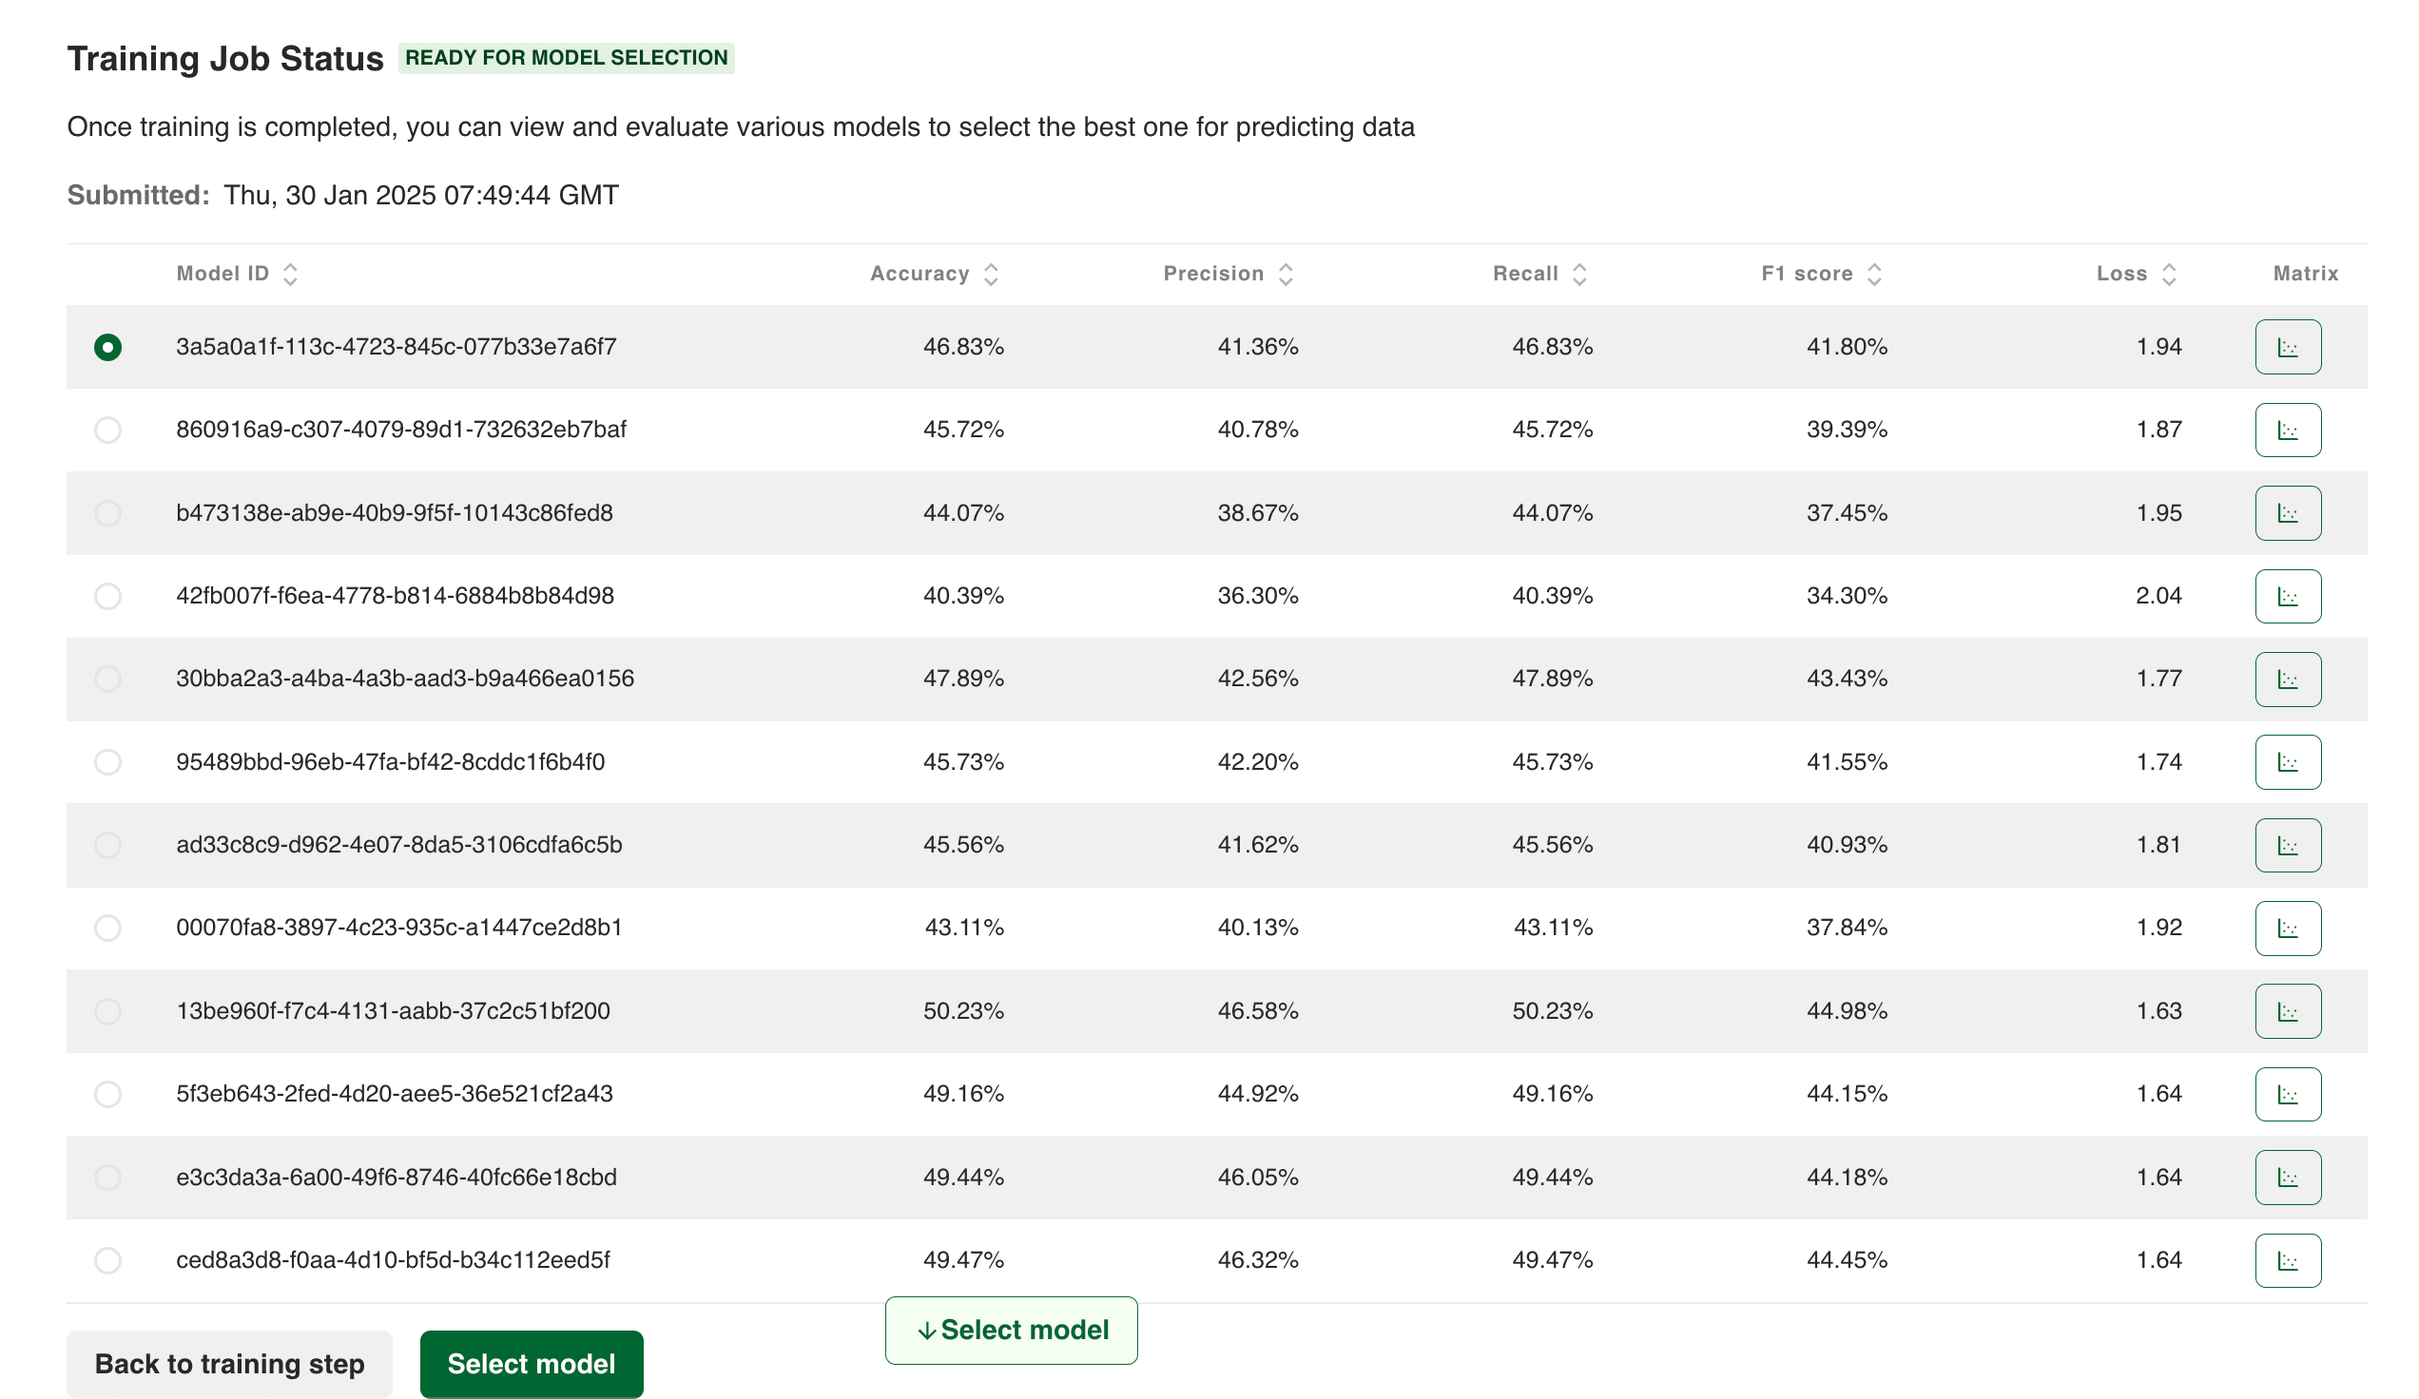
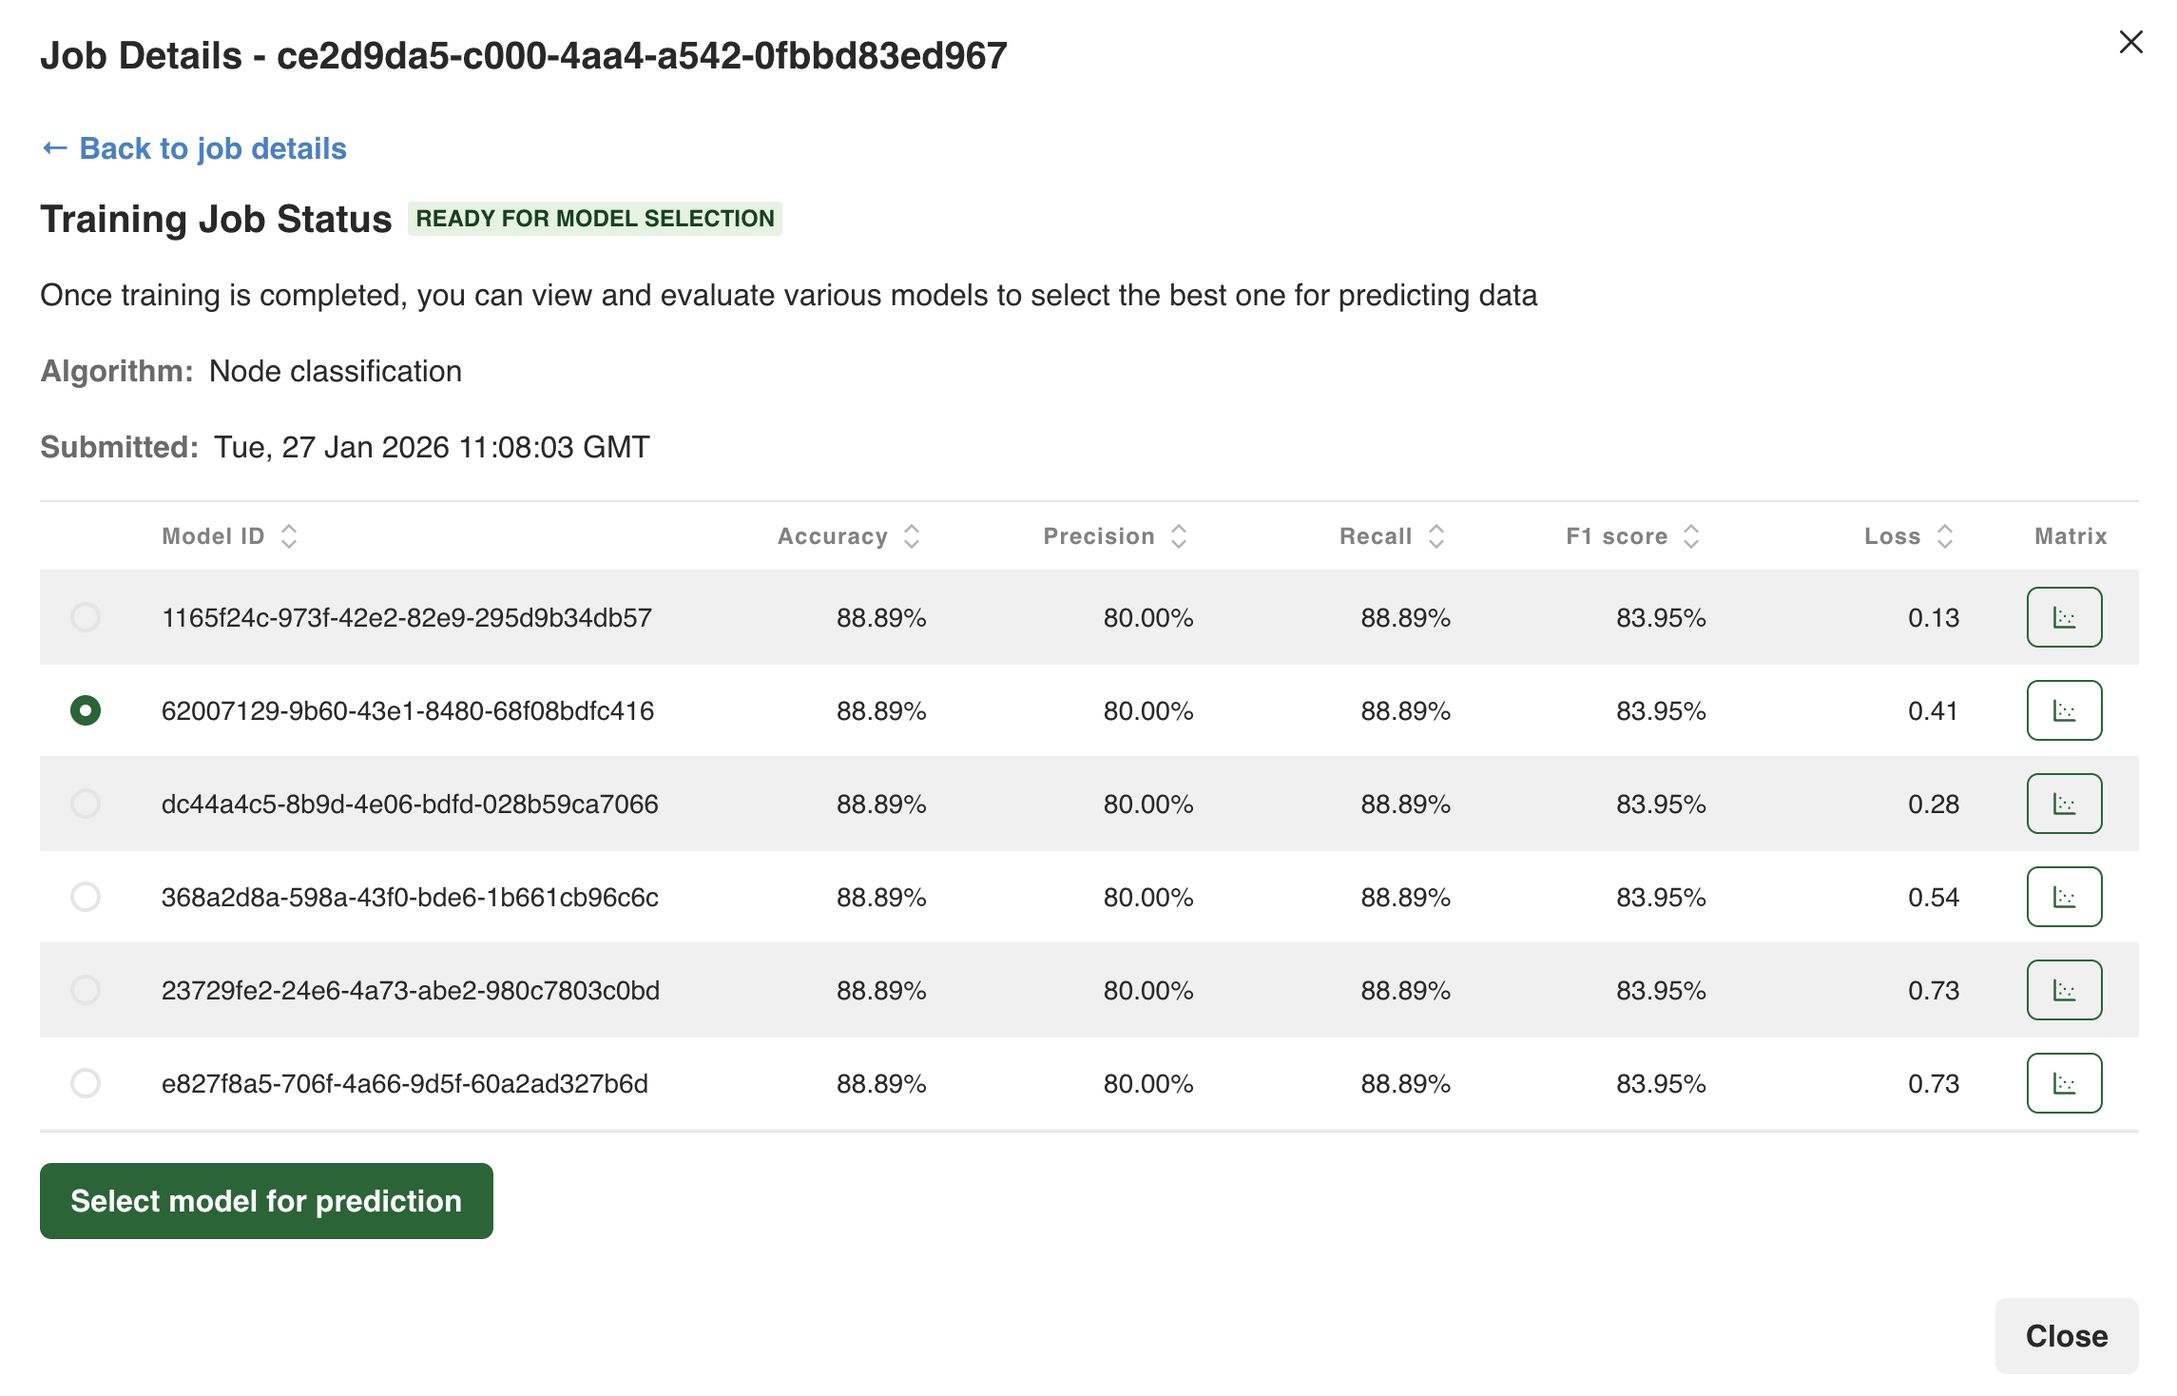
Update instructions and images for new GraphML UI

diff --git a/site/content/ai-suite/graphml/ui.md b/site/content/ai-suite/graphml/ui.md
@@ -9,7 +9,8 @@ description: >-
 ## The GraphML workflow in the web interface
 
 The entire process is organized into sequential steps within a **Project**,
-giving you a clear path from data to prediction:
+giving you a clear path from data to prediction. Jobs are displayed on a
+board with four columns, one for each phase:
 
 1. **Featurization**: Select your data and convert it into numerical representations.
 2. **Training**: Train a GraphSAGE model on the features and graph structure.
@@ -17,23 +18,43 @@ giving you a clear path from data to prediction:
 4. **Prediction**: Use the selected model to generate predictions on your data.
    You can also automate the prediction process to run at regular intervals.
 
+![GraphML Workflow](../../images/graphml-ui-workflow-steps.png)
+
 ## Create a GraphML project
 
 To create a new GraphML project using the Arango Data Platform web interface, follow these steps:
 
 1. From the left-hand sidebar, select the database where you want to create the project.
-2. In the left-hand sidebar, click **AI Suite** to open the GraphML project management interface, then click **Run GraphML**.
-   ![Create GraphML Project](../../images/graphml-ui-create-project.png)  
+2. In the left-hand sidebar, click **AI Suite** and then click **Run GraphML**.
 3. In the **GraphML projects** view, click **Add new project**.
 4. The **Create ML project** modal opens. Enter a **Name** for your machine learning project.
 5. Click the **Create project** button to finalize the creation.
 6. After creation, the new project appears in the list under **GraphML projects**.
-   Click the project name to begin with a Featurization job.
+   Click the project name to open the GraphML jobs board.
+
+## The GraphML jobs board
+
+After opening a project, you see a board displaying all jobs organized
+into four columns: **Featurization**, **Training**, **Generated Models**, and **Prediction**.
+
+For new projects with no existing jobs, the **New Featurization** modal automatically
+opens, prompting you to configure and start your first featurization job.
+
+For existing projects, you can:
+- Click any job card to view details and proceed to the next phase;
+- Click **Start a new job** to create a new featurization job;
+- Use the **GraphML Workflow Guide** panel for quick reference.
+
+Job cards display the job ID, status, database, and submission time. Key statuses include:
+**QUEUED**, **RUNNING**, **READY FOR TRAINING** , **READY FOR MODEL SELECTION**, **COMPLETED**, or **FAILED** if errors occur.
 
 ## Featurization phase
 
-After clicking on a project name, you are taken to a screen where you can
-configure and start a new Featurization job. Follow these steps:
+To start a new featurization job, click **Start a new job** from the jobs board,
+or for empty projects, the **New Featurization** modal opens automatically.
+
+In the featurization modal, configure your job as follows:
+
 1. **Select a Graph**: In the **Features** section, choose your target graph from the **Select a graph** dropdown menu.
 2. **Select Vertex Collection(s)**: Pick the node collection(s) that you want to include for feature extraction.
 3. **Select Attributes**: Choose the attributes from your node collection to
@@ -45,11 +66,13 @@ edge collections and the specified attributes). This is what you see represented
 in the metagraph object in the JSON specification on the right.
 {{< /info >}}
 
+![GraphML Featurization](../../images/graphml-ui-featurization.png)
+
 ### Configuration options
 
 The featurization process has several configurable options, grouped into
 **Configuration** and **Advanced** settings. These are also shown in a JSON
-format on the right side of the screen for transparency.
+format on the right side of the modal for transparency.
 
 In the **Configuration** tab, you can control the overall featurization job and
 how features are stored.
@@ -84,22 +107,31 @@ the strategies below to control how each feature type (**Text**, **Numeric**,
 |                   | **Coerce and Raise**   | Attempts to convert (coerce) the value to the correct type (e.g. string "123" to number `123`). If the conversion is successful, it uses the new value. If it fails, the job stops. | A balanced approach, often the best default strategy.                     |
 |                   | **Coerce and Replace** | The most forgiving option. The system first tries to convert the value. If it fails, it replaces the value with the specified default and continues the job.                        | For very dirty datasets where completing the job is the highest priority. |
 
-Once you’ve set your strategies, click **Begin featurization** to start the node
-embedding-compatible featurization job. When the job status updates to
-**Ready for training**, proceed to the **Training** step.
+Once you've set your strategies, click **Begin featurization** to submit the job.
+The button shows a loading state while the job is being submitted. After submission,
+the modal closes and the new job appears in the Featurization column on the jobs board
+with a **QUEUED** status.
 
-![Navigate to Featurization](../../images/graphml-ui-featurization.png) 
+As the job progresses, its status updates automatically. You can click the job card
+at any time to view details or cancel a queued or running job using the **Cancel job** button.
+When the job status updates to **READY FOR TRAINING**, you can proceed to the Training phase. 
 
 ## Training phase
 
-The training is the second step in the ML workflow after featurization.
-In the training phase, you configure and launch a machine learning training
-job on your graph data.
+The training phase is the second step in the ML workflow after featurization.
+Once your featurization job completes with a status of **READY FOR TRAINING**,
+click the job card in the Featurization column to open the job details modal.
 
-From the **Select a type of training job** dropdown menu, choose the type of
-model you want to train (**Node Classification** or **Node Embeddings**).
+The job details modal displays:
+- **Meta Graph**: Shows the vertex and edge collections and attributes you selected
+- **Featurization Job Status**: Displays "READY FOR TRAINING"
+- **Training configuration form**: Appears on the right side of the modal
 
-#### Node classification
+In the training configuration form, select the type of model you want to train
+from the **Select a type of training job** dropdown menu: **Node Classification**
+or **Node Embeddings**.
+
+### Node classification
 
 Node Classification is used to categorize the nodes in your graph based on their
 features and structural connections within the graph.
@@ -117,11 +149,11 @@ features and structural connections within the graph.
 - **Enable GPU**: Enables GPU-accelerated training using GPU-capable profiles
   configured for the project (e.g., `gpu-g4dn-xlarge`).
 
-After setting these values, click the **Begin training** button to start the job.
+After setting these values, click the **Begin training** button to submit the job.
+The button displays a loading state during submission, then the modal closes and
+the training job appears in the Training column.
 
-![Node Classification](../../images/graphml-ui-node-classification.png)
-
-####  Node embeddings
+### Node embeddings
 
 Node Embeddings are used to generate vector embeddings (dense numerical representations)
 of graph nodes that capture structural and feature-based information.
@@ -133,43 +165,80 @@ of graph nodes that capture structural and feature-based information.
 **Configuration parameters:**
 - **Type of Training Job:** Node embeddings
 - **Target Vertex Collection:** Select the collection to generate embeddings for (e.g. `movie` or `person`)
+- **Embedding size:** The dimensionality of the generated embedding vectors (e.g. `256`)
+- **Batch Size:** The number of documents processed in a single training iteration (e.g. `256`)
+- **Data Load Batch Size:** The number of documents loaded from ArangoDB into memory in a single batch during the data loading phase (e.g. `50000`)
+- **Data Load Parallelism:** The number of parallel processes used when loading data from ArangoDB into memory for training (e.g. `10`)
+- **Enable GPU:** Enables GPU-accelerated training using GPU-capable profiles configured for the project
 - No label is required for training in this mode
 
 The target collection is where the model's predictions are stored when running a prediction job.
 
-Once the configuration is complete, click **Begin training** to start the embedding job.
-
-![Node Embeddings](../../images/graphml-ui-node-embedding.png)
+Once the configuration is complete, click **Begin training** to submit the job.
+After submission, the training job appears in the Training column on the jobs board.
+When complete, trained models appear in the Generated Models column.
 
 ## Model selection phase
 
-Once the training is finished, the job status updates to **READY FOR MODEL SELECTION**.
-This means the model has been trained using the provided node and edge data
-and is now ready for evaluation.
+Once training completes with a status of **READY FOR MODEL SELECTION**, 
+click the training job card in the Training column to open the job details modal.
 
-A list of trained models is displayed, along with performance metrics
-(**Accuracy**, **Precision**, **Recall**, **F1 score**, **Loss**). Review the results of different
-model runs and configurations.
+The modal displays a table of all trained models with their performance metrics:
+- **Model ID**: Unique identifier for each model
+- **Accuracy**: Overall correctness of predictions (for classification)
+- **Precision**: Ratio of correct positive predictions
+- **Recall**: Ratio of actual positives correctly identified
+- **F1 score**: Harmonic mean of precision and recall
+- **Loss**: Training loss value (for embeddings)
+- **Matrix**: Button to view the confusion matrix (for classification models)
 
 ![GraphML Model Selection](../../images/graphml-ui-model.png)
 
-Select the best performing model suitable for your prediction task. You can also
-open the **Confusion Matrix** to compare predicted values versus actual values.
+### Selecting a model
+
+To select a model for prediction:
+
+1. Review the performance metrics in the table to identify the best performing model
+2. Click the radio button next to your chosen model to select it
+3. For classification models, optionally click the **Matrix** button to view the confusion matrix 
+   and understand model performance across different classes
+4. Click the **Select model for prediction** button at the bottom of the modal
 
 ![GraphML Confusion Matrix](../../images/graphml-ui-confusion-matrix.png)
 
+After selecting a model, the prediction configuration form appears, allowing you to
+set up and run predictions using the selected model.
+
 ## Prediction phase
 
-After selecting a model, you can create a Prediction Job. The Prediction Job
-generates predictions and persists them to the source graph, either in a new
-collection or within the source documents.
+After selecting a model in the Model Selection phase and clicking **Select model for prediction**,
+the prediction configuration form appears. This allows you to configure how inference runs 
+using the selected model.
 
-The Prediction interface allows inference to be run using the selected model.
-It enables configuration of how predictions are executed, which collections are
-involved, and whether new or outdated documents should be automatically featurized
-before prediction.
+You can specify which collections are involved and whether new or outdated documents 
+should be automatically featurized before prediction.
 
-You have two important options:
+![GraphML prediction phase](../../images/graphml-ui-prediction.png)
+
+### Configuration options
+
+Configure your prediction job with the following options:
+
+- **Select Model**: Displays the model you selected. This model performs the inference.
+- **Target Vertex Collection**: The node collection on which predictions are applied.
+- **Prediction Type**: Depending on the training job (classification or embedding), 
+  the prediction outputs class labels or updated embeddings.
+- **Prediction field**: The field in the documents where the predicted values are stored.
+- **Data load batch size**: Specifies the number of documents to load in a
+  single batch (e.g. `500000`).
+- **Data load parallelism**: The number of parallel threads used to process
+  the prediction workload (e.g. `10`).
+- **Enable GPU**: Enables GPU-accelerated prediction using GPU-capable profiles
+  configured for the project (e.g., `gpu-g4dn-xlarge`).
+
+### Featurization options
+
+You have two important options for handling dynamic data:
 
 - **Featurize new documents:** Enable this option to generate features for
   documents that have been added since the model was trained. This is useful
@@ -179,28 +248,8 @@ You have two important options:
   attributes (used during featurization) have changed since the last feature
   computation. This ensures your predictions reflect the latest changes to your data.
 
-In addition to these settings, you can also define the target data, where to store
-results, and whether to run the job on a recurring schedule.
-
 These options provide flexibility in handling dynamic graph data and keeping
 predictions relevant without repeating the entire ML workflow.
-
-- **Data load batch size**: Specifies the number of documents to load in a
-  single batch (e.g. `500000`).
-- **Data load parallelism**: The number of parallel threads used to process
-  the prediction workload (e.g. `10`).
-- **Prediction field**: The field in the documents where the predicted values are stored.
-- **Enable GPU**: Enables GPU-accelerated prediction using GPU-capable profiles
-  configured for the project (e.g., `gpu-g4dn-xlarge`).
-
-![GraphML prediction phase](../../images/graphml-ui-prediction.png)
-
-### Configuration options
-
-The Prediction screen displays the following configuration options:
-- **Select Model**: Displays the model selected during the Model Selection phase. This model will be used to perform inference.
-- **Target Vertex Collection**: This is the node collection on which predictions are applied.
-- **Prediction Type**: Depending on the training job (for example, classification or embedding), the prediction outputs class labels or updated embeddings.
 
 ### Enable scheduling
 
@@ -229,9 +278,12 @@ Below the CRON field, a user-friendly scheduling interface helps translate it:
 
 ### Execute prediction
 
-After reviewing the configuration, click the **Run Prediction** button. 
-Once prediction is complete, you can analyze the results directly in
-the Web Interface or export them for downstream use.
+After reviewing the configuration, click the **Run Prediction** button to submit
+the job. The button shows a loading state during submission. Once submitted, the
+modal closes and the prediction job appears in the Prediction column on the jobs board.
+
+Click a completed prediction job card to view its results. You can analyze the
+results directly in the Web Interface or export them for downstream use.
 
 ## Limitations
 
